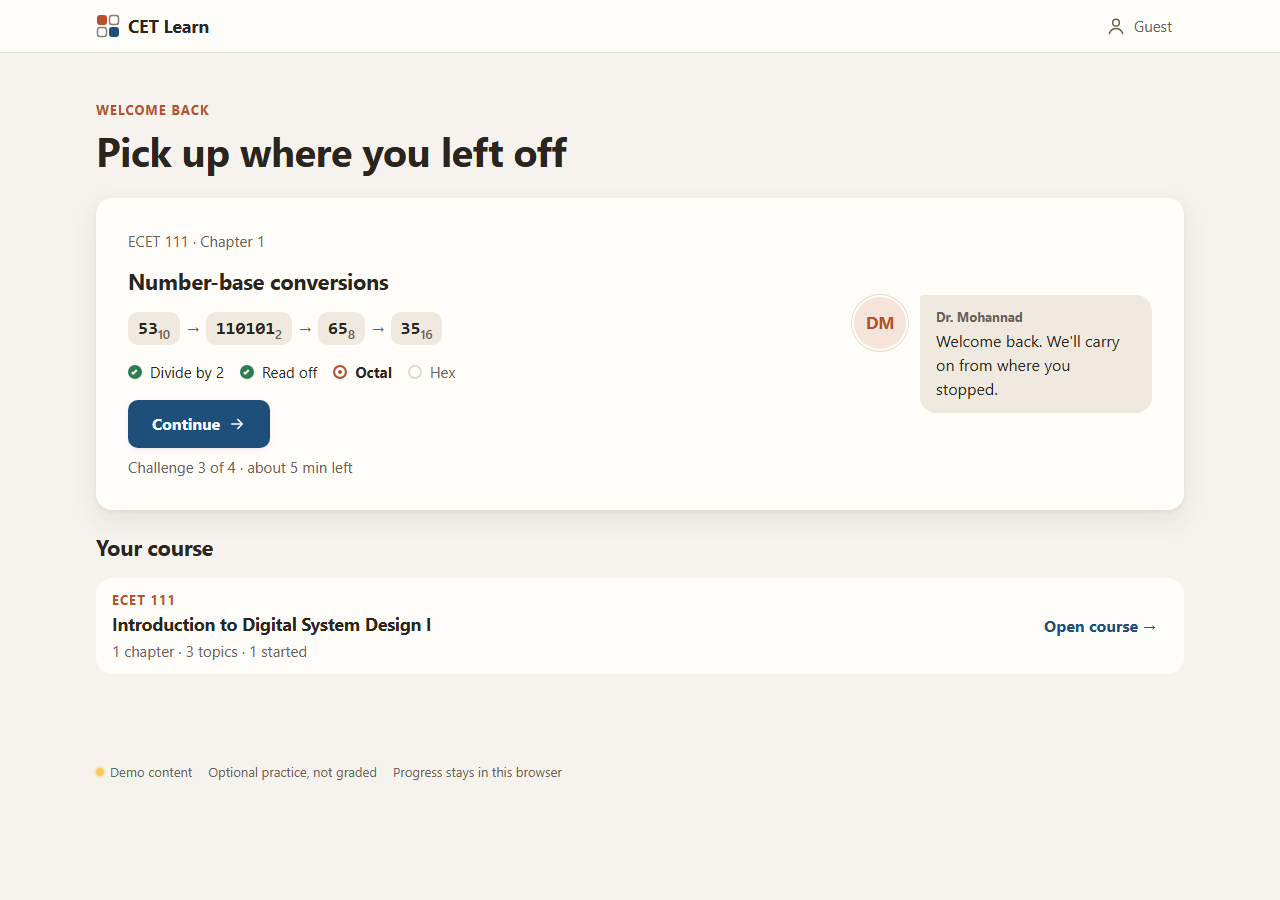
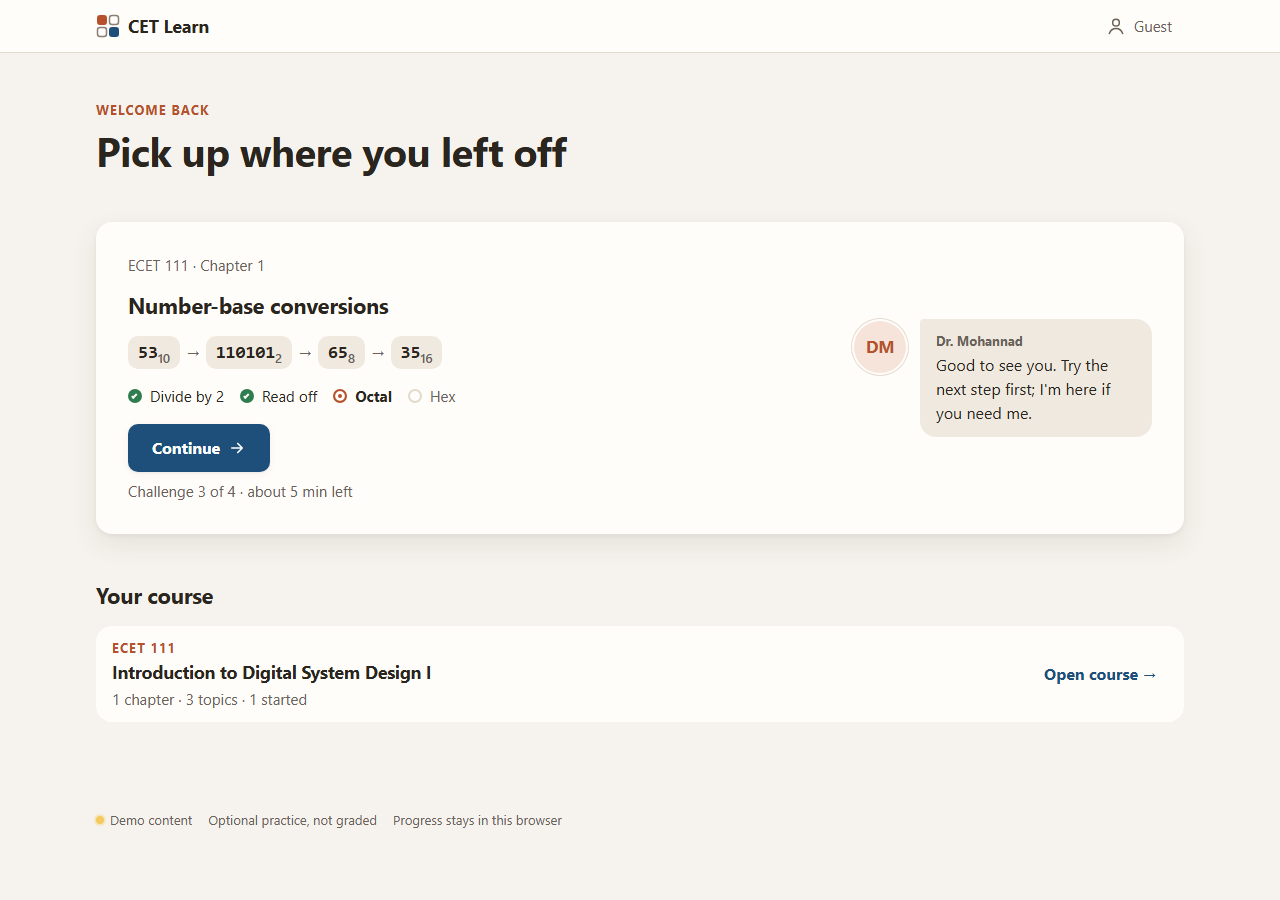
fix(shell): home review — tutor wording, 48 px between page bands

diff --git a/src/shell/r1/HomeNext.tsx b/src/shell/r1/HomeNext.tsx
@@ -61,7 +61,7 @@ export function HomeNext({ courses }: { courses: Course[] }) {
   const finishedAll = action.kind === "review";
 
   return (
-    <div className={styles.column} style={ready ? undefined : { visibility: "hidden" }} aria-busy={!ready} data-home={returning ? "returning" : "first"}>
+    <div className={`${styles.column} ${styles.bands}`} style={ready ? undefined : { visibility: "hidden" }} aria-busy={!ready} data-home={returning ? "returning" : "first"}>
       {returning ? (
         <PageHeading eyebrow="Welcome back" title={finishedAll ? "You have finished every topic" : "Pick up where you left off"} />
       ) : (

diff --git a/src/tutor/messages/en.ts b/src/tutor/messages/en.ts
@@ -6,7 +6,7 @@ export const en = {
   // generic flow
   // pages outside the stage (R1 redesign): set expectations, never method hints
   "page.home.first": "Start with the first topic. We'll go one step at a time.",
-  "page.home.returning": "Welcome back. We'll carry on from where you stopped.",
+  "page.home.returning": "Good to see you. Try the next step first; I'm here if you need me.",
   "page.course.intro": "Take the topics in order. Each challenge is short, and your progress is saved, so you can stop at any point.",
   "page.topic.intro": "We'll do this one step at a time. Try first; I'm here if you need me.",
 

diff --git a/src/shell/r1/r1.module.css b/src/shell/r1/r1.module.css
@@ -685,6 +685,10 @@
 }
 
 /* ---- HomeNext: the one elevated panel of the page ---- */
+.bands {
+  gap: var(--space-7);
+}
+
 .panel {
   display: grid;
   gap: var(--space-5);
